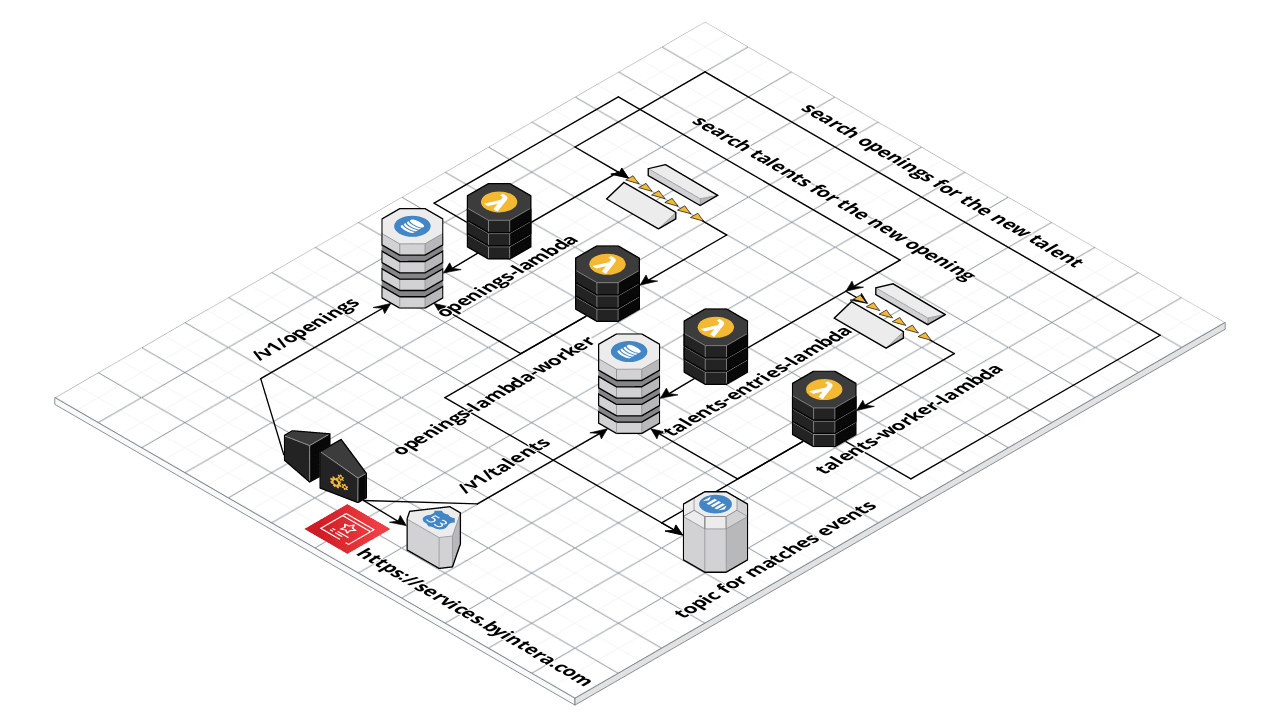
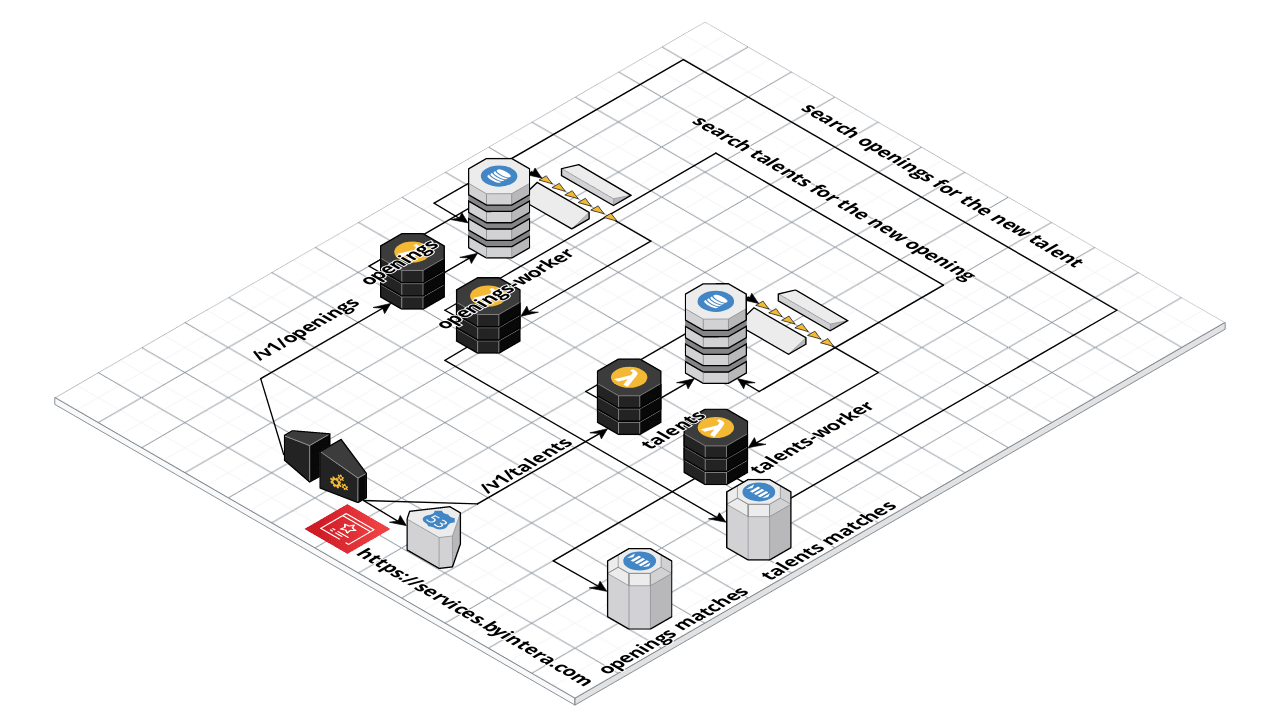
chore(docs): add final documentation

diff --git a/README.md b/README.md
@@ -48,24 +48,82 @@ Utilizamos SQS para realizar os trabalhos assíncronos de cada worker, DynamoDB 
 
 No diagrama não está diagramado o comportamento de DeadLetter, mas ela será implementada nas filas de SQS para lidar com mensagens que não processar e por sua vez, devem ser monitoradas usando CloudWatch.
 
+### Significado de cada Badge do projeto
+
+* [![Coverage Status](https://coveralls.io/repos/github/claytonsilva/talent-retainer-service/badge.svg?branch=main)](https://coveralls.io/github/claytonsilva/talent-retainer-service?branch=main) - cobertura de código solucão.
+
+* [![Mutation testing badge](https://img.shields.io/endpoint?style=flat&url=https%3A%2F%2Fbadge-api.stryker-mutator.io%2Fgithub.com%2Fclaytonsilva%2Ftalent-retainer-service%2Fmain)](https://dashboard.stryker-mutator.io/reports/github.com/claytonsilva/talent-retainer-service/main) - cobertura de código a prova de mutacões, ou seja, os testes falham quando altera o código. leia esse [artigo](https://medium.com/cwi-software/atingimos-100-de-cobertura-de-testes-ser%C3%A1-mesmo-4c531f8458bc) para entender mais.
+
+* [![Standard - JavaScript Style Guide](https://img.shields.io/badge/code%20style-standard-brightgreen.svg)](http://standardjs.com/) - usamos standardjs como padrão de formatacao e protegido por linters.
+
+* [![Conventional Changelog](https://img.shields.io/badge/changelog-conventional-brightgreen.svg)](http://conventional-changelog.github.io) - todos os nossos commits são cobertos pelo padrão do conventional-changelogs, [nesse artigo](https://medium.com/trainingcenter/git-da-necessidade-a-automa%C3%A7%C3%A3o-de-sua-release-parte-2-410b95c6d7cf) explico a respeito dele.
+
+* [![Standard Version](https://img.shields.io/badge/release-standard%20version-brightgreen.svg)](https://github.com/conventional-changelog/standard-version) - usamos padrão standard de release, embora ainda não tenha nenhum release feito. Standard release consegue criar um texto em cima dos commits do conventional changelogs, mostrando a sugestão da nova versão baseado no Semver, e os textos agrupados em `features` e `fixes`.
+
+* [![CircleCI](https://circleci.com/gh/claytonsilva/talent-retainer-service.svg?style=svg)](https://circleci.com/gh/claytonsilva/talent-retainer-service) - aqui é o estado atual da build no circleCI.
+
 ### Diagrama da solucao na AWS
 
 ![talent-service](./talent-retainer-service.png)
 
-### Como usar esse projeto (TODO)
+O diagrama representa sua configuracão mais simples onde a escrita feita pelos servicos que respondem ao api-gateway, escrevem direto na lambda, para mudar isso, basta alterar a variável `WRITE_OPERATION_LEVEL=ONLY_VALIDATE` que o processo de escrita no dynamo será assíncrono e de responsabilidade dos workers.
+
+Para saber mais como funciona em termos de business a solucao entre na documentacão de [business layer](./BUSINESS-LAYER.md).
+
+### Processo de integracao contínua
+
+O projeto possui no circleCI todo processo de integracao contínua que:
+
+* impede deploy se tiver quebra na build
+* faz teste de mutacao sempre que uma feature é entregue (pr fechada com a main).
+* deploy contínuo usando um usuário limitado a operacoes de deploy na aws.
+* deploy é feito com base no padrão de tags.
+
+### Como usar esse projeto
 
 É bem simples de já começar rodando
 
 1. Configure o `.env` baseado no `.env.example`;
-2. ligue o localstack com `docker-compose up -d`;
-3. levante o ambiente demo usando [terraform](https://www.terraform.io/) com os comandos:
+2. Instale as dependências com `yarn install`
+3. ligue o localstack com `docker-compose --env-file=.env.localstack up -d`;
+4. Se estiver usando OSX, recomendado usar o arquivo `docker-compose-osx.yaml`, pois ele já está configurado para tal.
+5. levante o ambiente demo usando [terraform](https://www.terraform.io/) com os comandos:
+
 ```bash
 $terraform init
 $terraform plan (avalia se é isso mesmo que quer criar)
 $terraform apply
 ```
-4. instale as dependências com `yarn install`; e
-5. rode o projeto com yarn start.
 
 Iremos ter endpoints funcionando tanto na arquitetura da AWS simulada com localstack, quanto em endpoints no port de `http` para facilitar desenvolvimento e debug.
 
+Agora vamos para segunda parte...
+
+1. Observe no output do terraform a variável `services_api_id = <id-da-api>`
+2. Utilize de um console terminal para executar a leitura dos logs com o comando `docker logs -f localstack_talent-retainer-service` e observe durante a validacao.
+3. Execute as chamadas de api a partir do endpoints `localhost:4566/restapis/<id-da-api>/dev/_user_request_/v1/openings` e `localhost:4566/restapis/<id-da-api>/dev/_user_request_/v1/talents`
+
+Para fazer as validacoes detalhadas, [siga esse roteiro](./ROTEIRO_VALIDACAO.md).
+
+Na pasta `iaac/aws` foi criado a infrasestrutura completa do caso de uso, onde teremos um api-gateway respondendo pelas entradas e terá autenticacao por api key. no [roteiro de validacão](./ROTEIRO_VALIDACAO.md) iremos abordar como validar na AWS.
+
+Para implantar na AWS:
+
+1. tenha terraform 0.11.14 instalado.
+2. tenha AWS cli v2 instalado e configurado com uma conta de sua preferencia em um profile definido.
+3. tenha nível de acesso para realizar as operacoes, utilize perfil administrativo de uma conta de `brinquedo` para validar.
+4. entre na pasta `iaac/aws` e exporte a variável de ambiente do seu profile `export AWS_PROFILE=<meu profile>`
+5. realize o comando `terraform init` e depois `terraform apply -target=module.s3`
+6. guarde o resultado do output para usarmos no roteiro de validacao.
+7. no bucket que foi criado rode o comando `yarn build-lambda` para que os códigos da lambdas sejam criados em `.serverless`, em seguida mova eles para a pasta `/latest` dentro do bucket criado pelo terraform no passo 5)
+8. volte na pasta `iaac/aws` e termine de deployar a infraestrutura com `terraform apply`.
+9. Entre na conta da aws e obtenha o endopoint da api, assim como a chave de api `developer` no painel do apigateway.
+10. Agora é seguir o [roteiro](./ROTEIRO_VALIDACAO.md).
+11. CUIDADO, não estamos usando backend para persistir estado, não apague os arquivos `terraform.tfstate` e `terraform.tfstate.backup`, se perder eles, terá que remover manualmente os recursos criados.
+12. Ao final do processo, só dar `terraform destroy` e ser feliz.
+
+![feliz-e-triste](https://img.r7.com/images/meme-sorriso-forcado-hide-the-pain-harold-maurice-andras-arato-08112019141226221)
+
+### Melhorias mapeadas
+
+Mapeei as melhorias a serem feitas [aqui](./MELHORIAS.md).

diff --git a/ROTEIRO_VALIDACAO.md b/ROTEIRO_VALIDACAO.md
@@ -1,0 +1,111 @@
+# Roteiro guiado de validacão
+
+## Usando localstack
+
+Usando os endpoints:
+
+* `http://localhost:4566/restapis/<id-da-api>/dev/_user_request_/v1/openings`
+* `http://localhost:4566/restapis/<id-da-api>/dev/_user_request_/v1/talents`
+
+Podemos seguir o seguinte roteiro:
+
+* Criar a vaga
+
+POST em `http://localhost:4566/restapis/<id-da-api>/dev/_user_request_/v1/openings` com payload abaixo:
+
+```json
+{
+    "openingCompanyName": "ACME",
+    "openingJobName": "DevOps Senior",
+    "openingEconomicSegment": "Tecnology",
+    "openingSoftSkillsTags": ["leadership"],
+    "openingHardSkillsTags": ["java", "devops", "hashicorp"],
+    "openingRangeSalary": "BETWEEN10KAND15K",
+    "openingPositionTags": ["backend:senior", "backend:junior", "techleader"],
+    "openingResume": "I Need yoy to work here plis :D",
+    "openingStatus": "OPEN"
+}
+```
+
+* Iremos ter:
+  * Escrita no banco (tabela openings)
+  * Evento de match
+  * Nenhum resultado de match, consequentemente não terá disparo de SNS
+  * Na resposta terá um payload com a `id` do Objeto criado.
+
+* Confira se a vaga foi criada:
+
+	GET em `http://localhost:4566/restapis/<id-da-api>/dev/_user_request_/v1/openings/Tecnology/<id>`, onde a `id` você obteve da chamada anterior.
+
+* Se quiser editar e excluir, seguimos no mesmo padrão usando os verbos `PUT` (editar) e `DELETE` (deletar) para realizar essas operacoes, lembrando que a url vai ser a mesma do `GET`, mas o `PUT` terá o payload igual o do `POST`
+
+* Crie um talento incompatível com a vaga:
+
+POST em `http://localhost:4566/restapis/<id-da-api>/dev/_user_request_/v1/talents` com payload abaixo:
+
+```json
+{
+    "talentName": "paulao",
+    "talentSurname": "silverio dos reis",
+    "talentEconomicSegment": "Tecnology",
+    "talentSoftSkillsTags": [],
+    "talentHardSkillsTags": ["cobol"],
+    "talentLastSalaryRange": "BETWEEN10KAND15K",
+    "talentPositionTags": [],
+    "talentResume": "Im happy \n and i love my carreer",
+    "talentStatus": "OPEN"
+}
+```
+
+* Iremos ter:
+  * Escrita no banco (tabela openings)
+  * Evento de match
+  * Nenhum resultado de match, consequentemente não terá disparo de SNS
+  * Na resposta terá um payload com a `id` do Objeto criado.
+
+* Crie um talento **compatível** com a vaga:
+
+POST em `http://localhost:4566/restapis/<id-da-api>/dev/_user_request_/v1/talents` com payload abaixo:
+
+```json
+{
+    "talentName": "claytin",
+    "talentSurname": "santos da silva",
+    "talentEconomicSegment": "Tecnology",
+    "talentSoftSkillsTags": ["paizao"],
+    "talentHardSkillsTags": ["hashicorp"],
+    "talentLastSalaryRange": "BETWEEN10KAND15K",
+    "talentPositionTags": ["menino do computador"],
+    "talentResume": "Oo",
+    "talentStatus": "OPEN"
+}
+```
+
+O matching irá acontecer por conta de:
+
+```json
+"talentHardSkillsTags": ["hashicorp"],
+```
+
+* Iremos ter:
+  * Escrita no banco (tabela openings)
+  * Evento de match
+  * **Um** resultado de match, consequentemente **terá** disparo de SNS
+  * Na resposta terá um payload com a `id` do Objeto criado.
+  * Nos logs do localstack irá aparecer a saida do `writer-sns` informando a vaga compatível.
+
+## Usando AWS
+
+No readme colocamos como provisionar na AWS, logo na saída do terraform teremos algumas variáveis interessantes:
+
+```terraform
+api_key = <SECRET>
+url_apigw_opening = https://<SECRET>.execute-api.us-east-2.amazonaws.com/dev
+url_apigw_talent = https://<SECRET>.execute-api.us-east-2.amazonaws.com/dev
+```
+
+Deixei `<SECRET>` por se tratar de informacão sensível.
+
+Nas urls você pode adicionar os paths `/v1/openings` e `/v1/talents` e no header irá criar um elemento chamado `x-api-key` com o valor dela de resposta.
+
+O processo é o mesmo do localstack, e irá validar os matchs no cloudwatch logs da lambdas. em especial o `sns-writer` que irá compilar o resultado  final do projeto.

diff --git a/BUSINESS_LAYER.md b/BUSINESS_LAYER.md
@@ -1,0 +1,53 @@
+# Camada de negócios do Talent Retainer Service
+
+## Arquitetura dos microservicos
+
+Utilizamos da arquitetura Hexagonal para criarmos um ambiente `monorepo` controlado onde teremos controle de todo um grupo de servicos que servem um mesmo contexto.
+
+Teremos Basicamente 5 lambdas que irão responder pelos servicos da solucão.
+
+* openings-service - realiza as chamadas de controle de estado das vagas abertas
+
+* talents-service  - realiza as chamadas de controle de estado dos talentos disponíveis
+
+* openings-workers - por padrão, é responsável pelo processamento de match assíncrono, mas se configurado o sistema para operar com `WRITE_OPERATION_LEVEL='ONLY_VALIDATE'`, as operacoes de escrita do dynamo ficam de responsabilidade com ele, e as lambdas que ficam na frente do api gateway irão somente validar o dado e enviar para o SQS para processar depois. Note que o worker irá gerir dados de vagas, então para fazer o match, ele irá usar o dado da vaga nova e irá realizar uma busca no banco de dados de talents, sempre que uma vaga for criada ou alterada. O mesmo irá enviar para o topico SNS do talents-match, para que os assinantes do evento processem. O isolamento dos repositórios para os seus respectivos microservicos acabou sendo quebrado nessa parte, mas fica mapeado que o ideal é que tenhamos somente um worker, e que a base de dados dos dois repositórios sejam replicados para um `elasticsearch` para uma busca mais estruturada.
+
+* talents-workers - é a mesma regra do worker citado acima, mas ele tem responsabilidade pelos dados de talentos, e responsável por buscar vagas sempre que um talento é criado ou alterado.
+
+* sns-writer - um pequeno microservico usado para debugar nos logs se os eventos de match estão dando resultado, foi utilizado como ponto de prova.
+
+## Fluxo da informacão
+
+O fluxo de comunicacão padrão é:
+
+![fluxopadrao](./diagrama-fluxo-padrao.png)
+
+Esse fluxo segue o mesmo padrão para alteracões de dados, tanto para talentos (talents) quanto para vagas (openings).
+
+com a opcao assincrona `ONLY_VALIDATE`, o fluxo fica dessa forma:
+
+![fluxoassincrono](./diagrama-fluxo-write-async.png).
+
+Todas as comunicacoes com fila tem dead letter queue configurada, e definido para fazer `3` tentativas. O fluxo assíncrono é o fluxo mais seguro para evitar perda de dados em um volume alto de entrada.
+
+Mas caso tenhamos problema de processamento, todos os payloads são logados no cloudwatch, onde podemos recuperar e averiguar em caso de falha. Utilizei da biblioteca `escriba` para gerar os payloads de logs, onde todas as operacoes de escrita são registradas.
+
+## Algoritmo de match
+
+O algoritmo foi feito de forma bem simples para validar somente a questão do uso da arquitetura.
+
+Criamos em ambas as entidades campos de lista de `tags`:
+
+[Você pode conferir a estrutura de dados aqui de Openings](https://claytonsilva.github.io/talent-retainer-service/global.html#Opening)
+
+[Você pode conferir a estrutura de dados aqui de Talents](https://claytonsilva.github.io/talent-retainer-service/global.html#Talent)
+
+* positionTags (para a empresa são as posicoes que querem preencher, e para o talento, são as posicoes que ocupou)
+
+* hardSkillTags (hard skills que empresa busca e o talento possui)
+
+* softSkillTags (soft skills que empresa busca e o talento possui)
+
+Em cima dessas três listas, cruzamos a lista do proponente, basta ele bater com algum elemento de qualquer um dos campos de lista, que o match acontece.
+
+Para realizar a busca, foi criado um [algoritmo](https://claytonsilva.github.io/talent-retainer-service/business_opening.js.html#line166) que monta a consulta no Dynamo, o worker por sua vez realiza ela.

diff --git a/MELHORIAS.md b/MELHORIAS.md
@@ -1,0 +1,15 @@
+# Melhorias mapeadas
+
+* Não temos teste integrado, e é possível fazermos de forma fácil usando localstack no CircleCI com roteiro de requisicoes com o `supertest`
+
+* A cobertura na camada de `ports` está fraca, precisa ser feito para que a cobertura suba a um valor aceitável.
+
+* Não foi criado uma banco de dados exclusivo para consulta, o que ficou confuso das consultas dos workers sendo feita de forma `cruzada`, o ideal é que o worker unifique e que os dados gerados sejam replicados para um banco de dados próprio para pesquisa.
+
+* As políticas de acessos não estão enxutas, e precisam ser todos revisados, deve ser evitado acesso wildcard a servicos, é uma prática perigosa.
+
+* Cobertura contra [Mutacões](https://dashboard.stryker-mutator.io/reports/github.com/claytonsilva/talent-retainer-service/main) nos testes foi focado no busines layer, o que está corretíssimo e é aonde o código mais altera, mas a falta de cobertura nas demais camadas, gerou retrabalho refatorando código orientado a `debug`.
+
+* Estamos longe ainda da resiliência, não foi criado fallback de SQS enviando para o S3 e nem tem fallback de servicos entre duas regiões.
+
+* A configuracão de requisicoes da SDK da AWS está no padrão ainda, e deve ser reduzido o tempo das requisicões para um valor menor que o tempo de vida da lambda (atualmente estamos trabalhando com 15 segundos), podemos considerar requisicoes `perdidas` quando passam de 7 segundos por exemplo, a AWS dura até dois minutos por padrão, e um timeout na AWS prejudica nosso servico mesmo tendo um fallback configurado.
